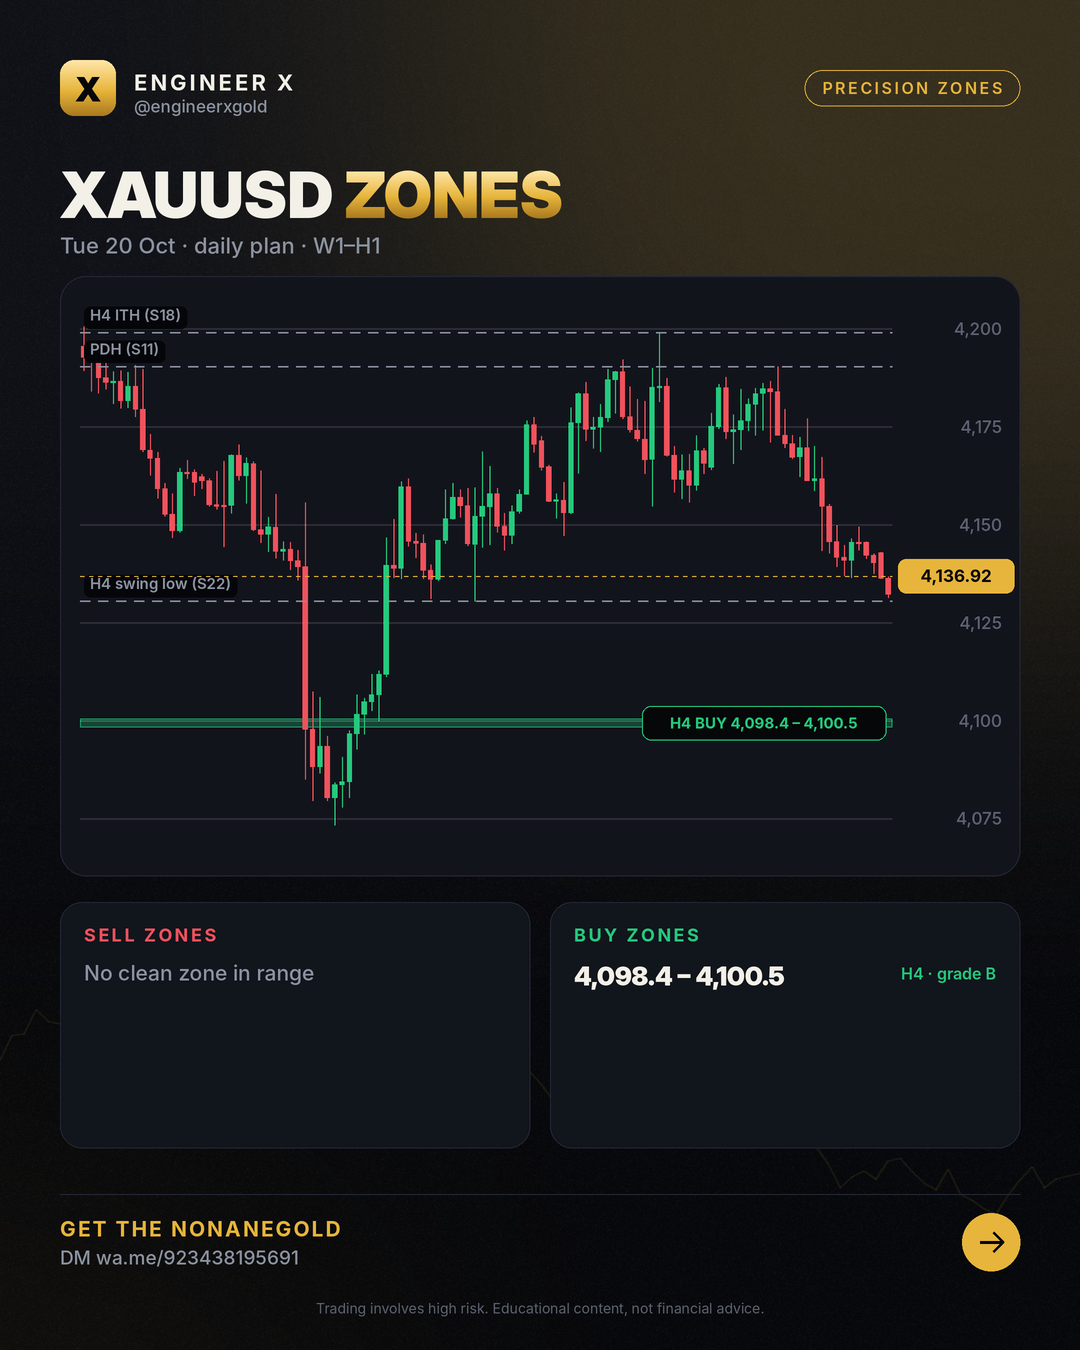
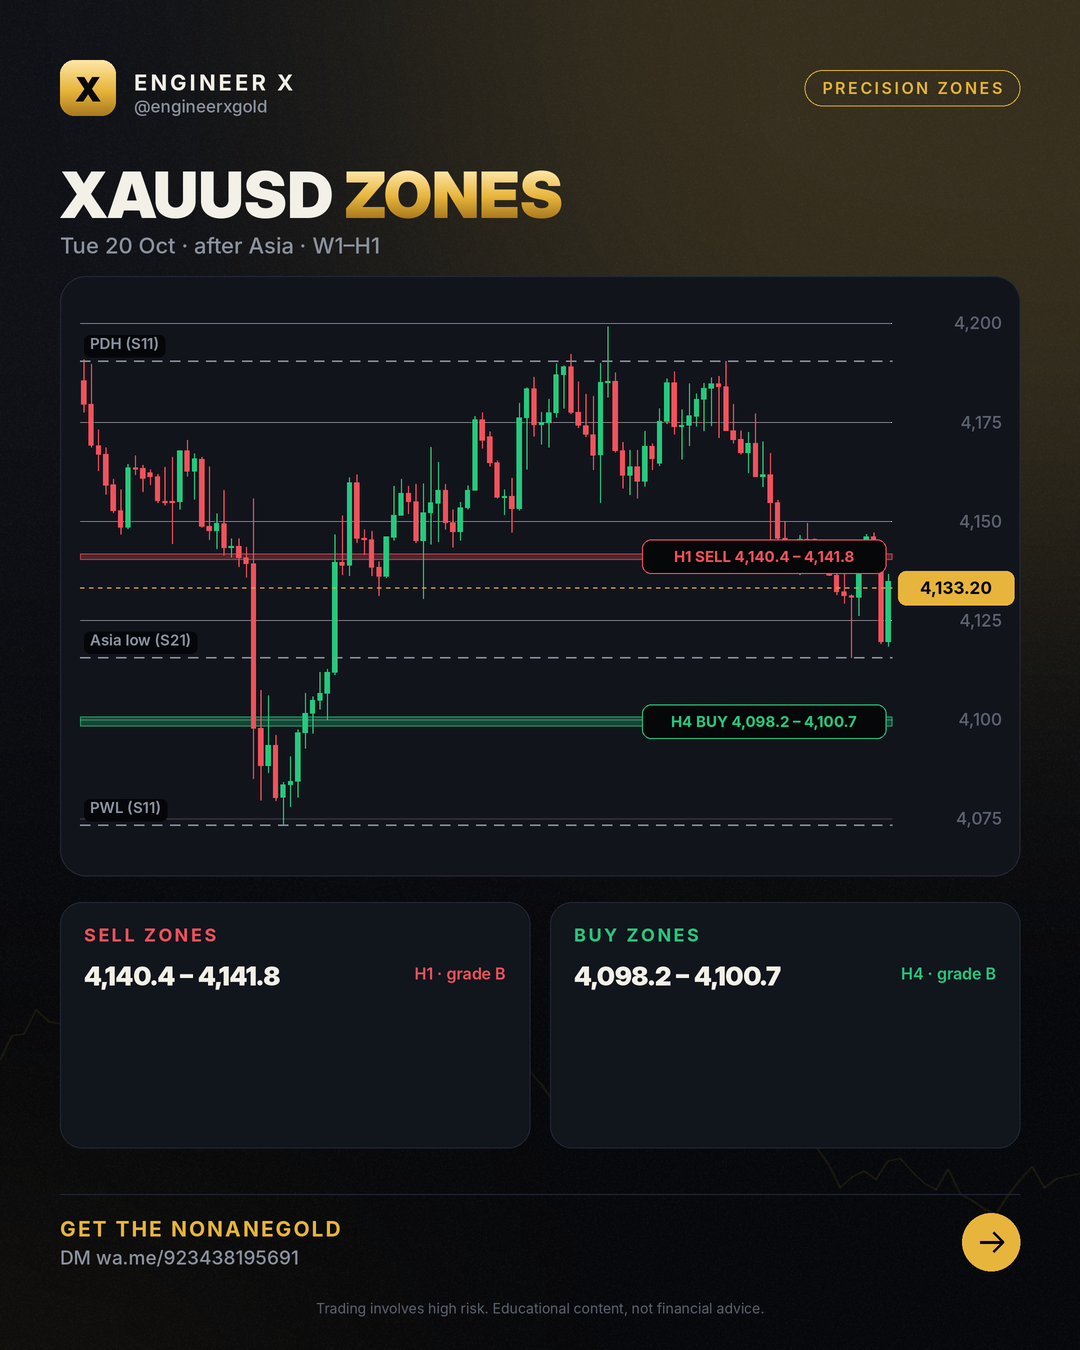
zones 2026-10-20 Tue 20 Oct · after Asia · W1–H1

diff --git a/zones/2026-10-20/index.html b/zones/2026-10-20/index.html
@@ -4,7 +4,7 @@
 <meta charset="utf-8">
 <meta name="viewport" content="width=device-width,initial-scale=1">
 <title>Gold Price Today – 20 Oct 2026 (W1–H1)</title>
-<meta name="description" content="XAUUSD buy and sell zones for 2026-10-20: tested W1, D1, H4 and H1 zones with invalidation levels, updated after the Asian, London and New York sessions. Price 4,136.92.">
+<meta name="description" content="XAUUSD buy and sell zones for 2026-10-20: tested W1, D1, H4 and H1 zones with invalidation levels, updated after the Asian, London and New York sessions. Price 4,133.20.">
 <meta name="robots" content="index,follow,max-image-preview:large,max-snippet:-1,max-video-preview:-1">
 <meta name="author" content="Engr. M Ahmad Mehmood">
 <link rel="canonical" href="https://engineerxgold.github.io/zones/2026-10-20/">
@@ -12,7 +12,7 @@
 <link rel="apple-touch-icon" href="../../img/logo.png">
 <meta property="og:site_name" content="Engineer X">
 <meta property="og:title" content="Gold Price Today – 20 Oct 2026 (W1–H1)">
-<meta property="og:description" content="XAUUSD buy and sell zones for 2026-10-20: tested W1, D1, H4 and H1 zones with invalidation levels, updated after the Asian, London and New York sessions. Price 4,136.92.">
+<meta property="og:description" content="XAUUSD buy and sell zones for 2026-10-20: tested W1, D1, H4 and H1 zones with invalidation levels, updated after the Asian, London and New York sessions. Price 4,133.20.">
 <meta property="og:type" content="article">
 <meta property="og:url" content="https://engineerxgold.github.io/zones/2026-10-20/">
 <meta property="og:image" content="https://engineerxgold.github.io/zones/img/2026-10-20.png">
@@ -22,7 +22,7 @@
 <meta property="og:locale" content="en_US">
 <meta name="twitter:card" content="summary_large_image">
 <meta name="twitter:title" content="Gold Price Today – 20 Oct 2026 (W1–H1)">
-<meta name="twitter:description" content="XAUUSD buy and sell zones for 2026-10-20: tested W1, D1, H4 and H1 zones with invalidation levels, updated after the Asian, London and New York sessions. Price 4,136.92.">
+<meta name="twitter:description" content="XAUUSD buy and sell zones for 2026-10-20: tested W1, D1, H4 and H1 zones with invalidation levels, updated after the Asian, London and New York sessions. Price 4,133.20.">
 <meta name="twitter:image" content="https://engineerxgold.github.io/zones/img/2026-10-20.png">
 <meta name="twitter:image:alt" content="Gold Price Today – 20 Oct 2026 (W1–H1)">
 
@@ -32,7 +32,7 @@
 <link rel="preconnect" href="https://fonts.googleapis.com">
 <link rel="preconnect" href="https://fonts.gstatic.com" crossorigin>
 <link href="https://fonts.googleapis.com/css2?family=Inter:wght@400;500;600;800;900&display=swap" rel="stylesheet">
-<script type="application/ld+json">{"@context": "https://schema.org", "@type": "Organization", "@id": "https://engineerxgold.github.io/#organization", "name": "Engineer X", "url": "https://engineerxgold.github.io/", "logo": {"@type": "ImageObject", "url": "https://engineerxgold.github.io/img/logo.png", "width": 512, "height": 512}, "sameAs": ["https://t.me/engineerxgold"]}</script><script type="application/ld+json">{"@context": "https://schema.org", "@type": "Article", "headline": "Gold Price Today – 20 Oct 2026 (W1–H1)", "datePublished": "2026-10-20T08:00:00+05:00", "dateModified": "2026-10-20T05:04:24+05:00", "author": {"@type": "Person", "@id": "https://engineerxgold.github.io/about/#author", "name": "Engr. M Ahmad Mehmood", "url": "https://engineerxgold.github.io/about/", "jobTitle": "MQL5 Expert Advisor developer and gold market analyst", "worksFor": {"@id": "https://engineerxgold.github.io/#organization"}}, "publisher": {"@id": "https://engineerxgold.github.io/#organization"}, "image": "https://engineerxgold.github.io/zones/img/2026-10-20.png", "mainEntityOfPage": "https://engineerxgold.github.io/zones/2026-10-20/"}</script>
+<script type="application/ld+json">{"@context": "https://schema.org", "@type": "Organization", "@id": "https://engineerxgold.github.io/#organization", "name": "Engineer X", "url": "https://engineerxgold.github.io/", "logo": {"@type": "ImageObject", "url": "https://engineerxgold.github.io/img/logo.png", "width": 512, "height": 512}, "sameAs": ["https://t.me/engineerxgold"]}</script><script type="application/ld+json">{"@context": "https://schema.org", "@type": "Article", "headline": "Gold Price Today – 20 Oct 2026 (W1–H1)", "datePublished": "2026-10-20T08:00:00+05:00", "dateModified": "2026-10-20T12:26:27+05:00", "author": {"@type": "Person", "@id": "https://engineerxgold.github.io/about/#author", "name": "Engr. M Ahmad Mehmood", "url": "https://engineerxgold.github.io/about/", "jobTitle": "MQL5 Expert Advisor developer and gold market analyst", "worksFor": {"@id": "https://engineerxgold.github.io/#organization"}}, "publisher": {"@id": "https://engineerxgold.github.io/#organization"}, "image": "https://engineerxgold.github.io/zones/img/2026-10-20.png", "mainEntityOfPage": "https://engineerxgold.github.io/zones/2026-10-20/"}</script>
 
 <style>
 :root{--gold:#E7B53B;--gold-hi:#FFE7A8;--bg:#07080B;--bg2:#0E1016;--panel:#12151D;--line:#232836;--green:#25C97D;--red:#F0525C;--text:#F3F0E8;--muted:#8C93A1}
@@ -101,7 +101,7 @@ footer .fl a{color:var(--muted);margin-right:16px}
 <div class="wrap">
 <nav><a class="logo" href="../../"><b>X</b>Engineer X</a>
 <div class="links"><a href="../../zones/">Daily Zones</a><a href="../../blog/">Learn</a><a href="../../ea/">Gold EA</a><a href="../../about/">About</a><a class="cta" href="https://wa.me/923438195691">Get the EA</a></div></nav>
-<article><p class="crumbs"><a href="../../">Home</a> › <a href="../">Zones</a> › 2026-10-20</p><h1>Gold Price Today – 20 Oct 2026 (W1–H1)</h1><p class="byline">Tue 20 Oct · daily plan · W1–H1 · by Engr. M Ahmad Mehmood</p><img src="../img/2026-10-20.png" alt="XAUUSD zone map 2026-10-20" width="1080" height="1350" loading="eager"><h2>Zones</h2><div style="overflow-x:auto"><table style="width:100%;border-collapse:collapse;font-size:15px"><tr><th align=left>Zone</th><th align=left>Price band</th><th>Grade</th><th align=left>Invalid</th><th align=left>Why</th></tr><tr><td>H4 buy</td><td><b>4,098.40 – 4,100.51</b></td><td>B</td><td>below 4,088.91</td><td>OTE 0.705 of the H4 leg 4073.37 → 4161.78 (S35; 0.62–0.79 = 4106.97–4091.94)</td></tr></table></div><h2>How to read this map</h2><p>Bands are where price is expected to react; they are not entries. Trading beyond the invalidation price ends the zone; each zone counts once (first touch). Highs and lows listed as liquidity are targets: on 10 years of gold price ran through them more often than through random levels.</p><div class="ctabox"><h3>🤖 Trade the zones with the NonaneGold</h3><p>Free signals group access + setup help Message us and we will help you set it up.</p><div class="btns"><a class="btn gold" href="https://wa.me/923438195691">Get the EA on Telegram</a><a class="btn ghost" href="../../ea/">About the EA</a></div></div></article>
+<article><p class="crumbs"><a href="../../">Home</a> › <a href="../">Zones</a> › 2026-10-20</p><h1>Gold Price Today – 20 Oct 2026 (W1–H1)</h1><p class="byline">Tue 20 Oct · after Asia · W1–H1 · by Engr. M Ahmad Mehmood</p><img src="../img/2026-10-20.png" alt="XAUUSD zone map 2026-10-20" width="1080" height="1350" loading="eager"><h2>Zones</h2><div style="overflow-x:auto"><table style="width:100%;border-collapse:collapse;font-size:15px"><tr><th align=left>Zone</th><th align=left>Price band</th><th>Grade</th><th align=left>Invalid</th><th align=left>Why</th></tr><tr><td>H1 sell</td><td><b>4,140.37 – 4,141.83</b></td><td>B</td><td>above 4,144.84</td><td>Balanced price range: H1 FVGs overlap 4140.37–4141.83 (S18 p47)</td></tr><tr><td>H4 buy</td><td><b>4,098.25 – 4,100.66</b></td><td>B</td><td>below 4,087.40</td><td>OTE 0.705 of the H4 leg 4073.37 → 4161.78 (S35; 0.62–0.79 = 4106.97–4091.94)</td></tr></table></div><h2>How to read this map</h2><p>Bands are where price is expected to react; they are not entries. Trading beyond the invalidation price ends the zone; each zone counts once (first touch). Highs and lows listed as liquidity are targets: on 10 years of gold price ran through them more often than through random levels.</p><div class="ctabox"><h3>🤖 Trade the zones with the NonaneGold</h3><p>Free signals group access + setup help Message us and we will help you set it up.</p><div class="btns"><a class="btn gold" href="https://wa.me/923438195691">Get the EA on Telegram</a><a class="btn ghost" href="../../ea/">About the EA</a></div></div></article>
 <footer>
 <div class="warn"><b>Risk warning:</b> Trading gold, forex and CFDs carries a high risk of losing money and is not suitable for everyone. Past results do not guarantee future results. Everything on this site is educational and not financial advice. We are an introducing partner of our broker and may earn a commission on accounts opened through our link.</div>
 <p class="fl" style="margin-top:18px"><a href="../../about/">About &amp; methodology</a><a href="../../privacy.html">Privacy</a><a href="../../terms.html">Terms &amp; risk disclosure</a><a href="../../feed.xml">RSS</a><a href="https://t.me/engineerxgold">Telegram</a></p>

diff --git a/zones/index.html b/zones/index.html
@@ -4,7 +4,7 @@
 <meta charset="utf-8">
 <meta name="viewport" content="width=device-width,initial-scale=1">
 <title>XAUUSD Zones Today – Buy &amp; Sell Zones (H4, H1) | Engineer X</title>
-<meta name="description" content="XAUUSD buy and sell zones for 2026-10-20: tested W1, D1, H4 and H1 zones with invalidation levels, updated after the Asian, London and New York sessions. Price 4,136.92.">
+<meta name="description" content="XAUUSD buy and sell zones for 2026-10-20: tested W1, D1, H4 and H1 zones with invalidation levels, updated after the Asian, London and New York sessions. Price 4,133.20.">
 <meta name="robots" content="index,follow,max-image-preview:large,max-snippet:-1,max-video-preview:-1">
 <meta name="author" content="Engr. M Ahmad Mehmood">
 <link rel="canonical" href="https://engineerxgold.github.io/zones/">
@@ -12,7 +12,7 @@
 <link rel="apple-touch-icon" href="../img/logo.png">
 <meta property="og:site_name" content="Engineer X">
 <meta property="og:title" content="XAUUSD Zones Today – Buy &amp; Sell Zones (H4, H1) | Engineer X">
-<meta property="og:description" content="XAUUSD buy and sell zones for 2026-10-20: tested W1, D1, H4 and H1 zones with invalidation levels, updated after the Asian, London and New York sessions. Price 4,136.92.">
+<meta property="og:description" content="XAUUSD buy and sell zones for 2026-10-20: tested W1, D1, H4 and H1 zones with invalidation levels, updated after the Asian, London and New York sessions. Price 4,133.20.">
 <meta property="og:type" content="website">
 <meta property="og:url" content="https://engineerxgold.github.io/zones/">
 <meta property="og:image" content="https://engineerxgold.github.io/zones/img/2026-10-20.png">
@@ -22,7 +22,7 @@
 <meta property="og:locale" content="en_US">
 <meta name="twitter:card" content="summary_large_image">
 <meta name="twitter:title" content="XAUUSD Zones Today – Buy &amp; Sell Zones (H4, H1) | Engineer X">
-<meta name="twitter:description" content="XAUUSD buy and sell zones for 2026-10-20: tested W1, D1, H4 and H1 zones with invalidation levels, updated after the Asian, London and New York sessions. Price 4,136.92.">
+<meta name="twitter:description" content="XAUUSD buy and sell zones for 2026-10-20: tested W1, D1, H4 and H1 zones with invalidation levels, updated after the Asian, London and New York sessions. Price 4,133.20.">
 <meta name="twitter:image" content="https://engineerxgold.github.io/zones/img/2026-10-20.png">
 <meta name="twitter:image:alt" content="XAUUSD Zones Today – Buy &amp; Sell Zones (H4, H1) | Engineer X">
 
@@ -101,7 +101,7 @@ footer .fl a{color:var(--muted);margin-right:16px}
 <div class="wrap">
 <nav><a class="logo" href="../"><b>X</b>Engineer X</a>
 <div class="links"><a href="../zones/">Daily Zones</a><a href="../blog/">Learn</a><a href="../ea/">Gold EA</a><a href="../about/">About</a><a class="cta" href="https://wa.me/923438195691">Get the EA</a></div></nav>
-<section class="hero"><span class="chip">Updated Tue 20 Oct · daily plan · W1–H1</span><h1>XAUUSD <span class="gold">precision zones</span></h1><p>XAUUSD buy and sell zones for 2026-10-20: tested W1, D1, H4 and H1 zones with invalidation levels, updated after the Asian, London and New York sessions. Price 4,136.92.</p></section><img src="img/2026-10-20.png" alt="Latest XAUUSD zone map" width="1080" height="1350"><section><h2>Current zones</h2><div style="overflow-x:auto"><table style="width:100%;border-collapse:collapse;font-size:15px"><tr><th align=left>Zone</th><th align=left>Price band</th><th>Grade</th><th align=left>Invalid</th><th align=left>Why</th></tr><tr><td>H4 buy</td><td><b>4,098.40 – 4,100.51</b></td><td>B</td><td>below 4,088.91</td><td>OTE 0.705 of the H4 leg 4073.37 → 4161.78 (S35; 0.62–0.79 = 4106.97–4091.94)</td></tr></table></div></section><section><h2>Honest scorecard</h2><div class="grid"><div class="card"><div class="n">128</div><p>zones published (30 days)</p></div><div class="card"><div class="n">49</div><p>held (moved 1 hourly ATR away)</p></div><div class="card"><div class="n">5</div><p>broke (traded beyond the invalidation)</p></div><div class="card"><div class="n">91%</div><p>hold rate of decided zones</p></div></div></section><div class="ctabox"><h3>🤖 Trade the zones with the NonaneGold</h3><p>Free signals group access + setup help Message us and we will help you set it up.</p><div class="btns"><a class="btn gold" href="https://wa.me/923438195691">Get the EA on Telegram</a><a class="btn ghost" href="../ea/">About the EA</a></div></div><section><h2>Archive</h2><div class="grid posts"><a class="card" href="2026-10-20/"><span class="date">2026-10-20</span><h3>XAUUSD zones 2026-10-20</h3></a><a class="card" href="2026-10-19/"><span class="date">2026-10-19</span><h3>XAUUSD zones 2026-10-19</h3></a><a class="card" href="2026-10-16/"><span class="date">2026-10-16</span><h3>XAUUSD zones 2026-10-16</h3></a><a class="card" href="2026-10-15/"><span class="date">2026-10-15</span><h3>XAUUSD zones 2026-10-15</h3></a><a class="card" href="2026-10-14/"><span class="date">2026-10-14</span><h3>XAUUSD zones 2026-10-14</h3></a><a class="card" href="2026-10-13/"><span class="date">2026-10-13</span><h3>XAUUSD zones 2026-10-13</h3></a></div></section>
+<section class="hero"><span class="chip">Updated Tue 20 Oct · after Asia · W1–H1</span><h1>XAUUSD <span class="gold">precision zones</span></h1><p>XAUUSD buy and sell zones for 2026-10-20: tested W1, D1, H4 and H1 zones with invalidation levels, updated after the Asian, London and New York sessions. Price 4,133.20.</p></section><img src="img/2026-10-20.png" alt="Latest XAUUSD zone map" width="1080" height="1350"><section><h2>Current zones</h2><div style="overflow-x:auto"><table style="width:100%;border-collapse:collapse;font-size:15px"><tr><th align=left>Zone</th><th align=left>Price band</th><th>Grade</th><th align=left>Invalid</th><th align=left>Why</th></tr><tr><td>H1 sell</td><td><b>4,140.37 – 4,141.83</b></td><td>B</td><td>above 4,144.84</td><td>Balanced price range: H1 FVGs overlap 4140.37–4141.83 (S18 p47)</td></tr><tr><td>H4 buy</td><td><b>4,098.25 – 4,100.66</b></td><td>B</td><td>below 4,087.40</td><td>OTE 0.705 of the H4 leg 4073.37 → 4161.78 (S35; 0.62–0.79 = 4106.97–4091.94)</td></tr></table></div></section><section><h2>Honest scorecard</h2><div class="grid"><div class="card"><div class="n">131</div><p>zones published (30 days)</p></div><div class="card"><div class="n">58</div><p>held (moved 1 hourly ATR away)</p></div><div class="card"><div class="n">5</div><p>broke (traded beyond the invalidation)</p></div><div class="card"><div class="n">92%</div><p>hold rate of decided zones</p></div></div></section><div class="ctabox"><h3>🤖 Trade the zones with the NonaneGold</h3><p>Free signals group access + setup help Message us and we will help you set it up.</p><div class="btns"><a class="btn gold" href="https://wa.me/923438195691">Get the EA on Telegram</a><a class="btn ghost" href="../ea/">About the EA</a></div></div><section><h2>Archive</h2><div class="grid posts"><a class="card" href="2026-10-20/"><span class="date">2026-10-20</span><h3>XAUUSD zones 2026-10-20</h3></a><a class="card" href="2026-10-19/"><span class="date">2026-10-19</span><h3>XAUUSD zones 2026-10-19</h3></a><a class="card" href="2026-10-16/"><span class="date">2026-10-16</span><h3>XAUUSD zones 2026-10-16</h3></a><a class="card" href="2026-10-15/"><span class="date">2026-10-15</span><h3>XAUUSD zones 2026-10-15</h3></a><a class="card" href="2026-10-14/"><span class="date">2026-10-14</span><h3>XAUUSD zones 2026-10-14</h3></a><a class="card" href="2026-10-13/"><span class="date">2026-10-13</span><h3>XAUUSD zones 2026-10-13</h3></a></div></section>
 <footer>
 <div class="warn"><b>Risk warning:</b> Trading gold, forex and CFDs carries a high risk of losing money and is not suitable for everyone. Past results do not guarantee future results. Everything on this site is educational and not financial advice. We are an introducing partner of our broker and may earn a commission on accounts opened through our link.</div>
 <p class="fl" style="margin-top:18px"><a href="../about/">About &amp; methodology</a><a href="../privacy.html">Privacy</a><a href="../terms.html">Terms &amp; risk disclosure</a><a href="../feed.xml">RSS</a><a href="https://t.me/engineerxgold">Telegram</a></p>

diff --git a/index.html b/index.html
@@ -101,7 +101,7 @@ footer .fl a{color:var(--muted);margin-right:16px}
 <div class="wrap">
 <nav><a class="logo" href="./"><b>X</b>Engineer X</a>
 <div class="links"><a href="./zones/">Daily Zones</a><a href="./blog/">Learn</a><a href="./ea/">Gold EA</a><a href="./about/">About</a><a class="cta" href="https://wa.me/923438195691">Get the EA</a></div></nav>
-<section class="hero"><span class="chip">XAUUSD · W1–H1 · every session</span><h1>Gold <span class="gold">precision zones</span>, updated after every session</h1><p>Tested buy and sell zones with clear invalidation, a scorecard of every result, and the NonaneGold for traders who want it automated.</p><div class="btns"><a class="btn gold" href="zones/">See today's zones</a><a class="btn ghost" href="https://wa.me/923438195691">Get the EA</a></div></section><section><h2>Latest map Tue 20 Oct · daily plan · W1–H1</h2><img src="zones/img/2026-10-20.png" alt="Latest XAUUSD zones" width="1080" height="1350"></section><div class="ctabox"><h3>🤖 Trade the zones with the NonaneGold</h3><p>Free signals group access + setup help Message us and we will help you set it up.</p><div class="btns"><a class="btn gold" href="https://wa.me/923438195691">Get the EA on Telegram</a><a class="btn ghost" href="ea/">About the EA</a></div></div><section><h2>Learn</h2><div class="grid posts"><a class="card" href="blog/gold-supply-and-demand-zones-h4-w1-map-analysis/"><span class="date">2026-10-20</span><h3>Gold Supply and Demand Zones: H4 &amp; W1 Map Analysis</h3></a><a class="card" href="blog/gold-trading-reading-h4-trend-liquidity-zones/"><span class="date">2026-10-19</span><h3>Gold Trading: Reading H4 Trend &amp; Liquidity Zones</h3></a><a class="card" href="blog/gold-support-resistance-live-technical-map-zones/"><span class="date">2026-10-18</span><h3>Gold Support Resistance: Live Technical Map &amp; Zones</h3></a><a class="card" href="blog/gold-supply-and-demand-zones-live-trading-map-guide/"><span class="date">2026-10-17</span><h3>Gold Supply and Demand Zones: Live Trading Map &amp; Guide</h3></a><a class="card" href="blog/gold-trading-h4-trend-and-live-market-zones-map/"><span class="date">2026-10-16</span><h3>Gold Trading: H4 Trend and Live Market Zones Map</h3></a><a class="card" href="blog/gold-price-today-navigating-h4-downtrend-key-zones/"><span class="date">2026-10-15</span><h3>Gold Price Today: Navigating H4 Downtrend &amp; Key Zones</h3></a></div></section><section><h2>FAQ</h2><details><summary>What is a precision zone?</summary><p>A point of interest from a trading book (OTE 0.705, balanced price range, weekly close level, daily order block) that held better than random levels on 10 years of gold. Each zone has an invalidation price.</p></details><details><summary>How often are the zones updated?</summary><p>A daily plan at the Asian open, then after the Asian, London and New York sessions.</p></details><details><summary>Are these trade signals?</summary><p>No. Zones are areas to watch. Wait for your own confirmation and manage risk.</p></details><details><summary>How do I get the Gold EA?</summary><p>Message us on Telegram or WhatsApp; we answer and help with the setup.</p></details></section>
+<section class="hero"><span class="chip">XAUUSD · W1–H1 · every session</span><h1>Gold <span class="gold">precision zones</span>, updated after every session</h1><p>Tested buy and sell zones with clear invalidation, a scorecard of every result, and the NonaneGold for traders who want it automated.</p><div class="btns"><a class="btn gold" href="zones/">See today's zones</a><a class="btn ghost" href="https://wa.me/923438195691">Get the EA</a></div></section><section><h2>Latest map Tue 20 Oct · after Asia · W1–H1</h2><img src="zones/img/2026-10-20.png" alt="Latest XAUUSD zones" width="1080" height="1350"></section><div class="ctabox"><h3>🤖 Trade the zones with the NonaneGold</h3><p>Free signals group access + setup help Message us and we will help you set it up.</p><div class="btns"><a class="btn gold" href="https://wa.me/923438195691">Get the EA on Telegram</a><a class="btn ghost" href="ea/">About the EA</a></div></div><section><h2>Learn</h2><div class="grid posts"><a class="card" href="blog/gold-supply-and-demand-zones-h4-w1-map-analysis/"><span class="date">2026-10-20</span><h3>Gold Supply and Demand Zones: H4 &amp; W1 Map Analysis</h3></a><a class="card" href="blog/gold-trading-reading-h4-trend-liquidity-zones/"><span class="date">2026-10-19</span><h3>Gold Trading: Reading H4 Trend &amp; Liquidity Zones</h3></a><a class="card" href="blog/gold-support-resistance-live-technical-map-zones/"><span class="date">2026-10-18</span><h3>Gold Support Resistance: Live Technical Map &amp; Zones</h3></a><a class="card" href="blog/gold-supply-and-demand-zones-live-trading-map-guide/"><span class="date">2026-10-17</span><h3>Gold Supply and Demand Zones: Live Trading Map &amp; Guide</h3></a><a class="card" href="blog/gold-trading-h4-trend-and-live-market-zones-map/"><span class="date">2026-10-16</span><h3>Gold Trading: H4 Trend and Live Market Zones Map</h3></a><a class="card" href="blog/gold-price-today-navigating-h4-downtrend-key-zones/"><span class="date">2026-10-15</span><h3>Gold Price Today: Navigating H4 Downtrend &amp; Key Zones</h3></a></div></section><section><h2>FAQ</h2><details><summary>What is a precision zone?</summary><p>A point of interest from a trading book (OTE 0.705, balanced price range, weekly close level, daily order block) that held better than random levels on 10 years of gold. Each zone has an invalidation price.</p></details><details><summary>How often are the zones updated?</summary><p>A daily plan at the Asian open, then after the Asian, London and New York sessions.</p></details><details><summary>Are these trade signals?</summary><p>No. Zones are areas to watch. Wait for your own confirmation and manage risk.</p></details><details><summary>How do I get the Gold EA?</summary><p>Message us on Telegram or WhatsApp; we answer and help with the setup.</p></details></section>
 <footer>
 <div class="warn"><b>Risk warning:</b> Trading gold, forex and CFDs carries a high risk of losing money and is not suitable for everyone. Past results do not guarantee future results. Everything on this site is educational and not financial advice. We are an introducing partner of our broker and may earn a commission on accounts opened through our link.</div>
 <p class="fl" style="margin-top:18px"><a href="./about/">About &amp; methodology</a><a href="./privacy.html">Privacy</a><a href="./terms.html">Terms &amp; risk disclosure</a><a href="./feed.xml">RSS</a><a href="https://t.me/engineerxgold">Telegram</a></p>
